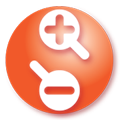
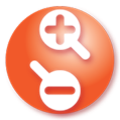
i have no idea

diff --git a/resources/assets/scripts/labcamCtrl/labcamCtrl.js b/resources/assets/scripts/labcamCtrl/labcamCtrl.js
@@ -44,17 +44,15 @@ export default class CameraControllerThing {
 
   // direct command sender
   sendCommand(action, actionKey, command) {
-    let commandQuerey = {
+    let commandQuery = {
       url: this.formUrl,
       method: 'POST',
       data: {
-        'action': action,
+        action: action,
         [actionKey]: command,
       },
     };
-    $.ajax(
-      commandQuerey
-    );
+    $.ajax(commandQuery);
   }
 
   // helper to get stop command
@@ -97,11 +95,12 @@ export default class CameraControllerThing {
     console.log(`${actionToKill} ${commandToKill} killed`);
   }
 
-  // universal helper to controll camera
+  // universal helper to control camera
   doCommand(action, command) {
     console.log(`Command ${action} sent to ${command}`);
     // kill and clear last action
-    if (this.activeAction && this.timeOut) this.killAction(this.activeAction, this.activeCommand);
+    if (this.activeAction && this.timeOut)
+      this.killAction(this.activeAction, this.activeCommand);
     // set the active action
     this.activeAction = action;
     this.activeCommand = command;
@@ -110,7 +109,10 @@ export default class CameraControllerThing {
     //run command
     if (command !== stopCommand) {
       let secondsToGo = 5;
-      this.timeOut = setTimeout(this.killAction.bind(this, action, command), 1000 * secondsToGo);
+      this.timeOut = setTimeout(
+        this.killAction.bind(this, action, command),
+        1000 * secondsToGo
+      );
     }
     let actionKey = this.getActionKey(action);
     this.sendCommand(action, actionKey, command);

diff --git a/resources/assets/styles/components/_video-cards.scss b/resources/assets/styles/components/_video-cards.scss
@@ -46,7 +46,7 @@
       position: absolute;
       z-index: 10;
       content: "";
-      background: url(../images/play.png) center center no-repeat;
+      background: url("../images/play.png") center center no-repeat;
       background-size: contain;
       width: 20%;
       height: 100%;

diff --git a/resources/views/labcam-views/labcam-ctrls.blade.php b/resources/views/labcam-views/labcam-ctrls.blade.php
@@ -1,58 +1,75 @@
 <div class="d-flex mb-4">
-  <style>
-    .zoomPng img {
-      user-drag: none;
-      user-select: none;
-      -moz-user-select: none;
-      -webkit-user-drag: none;
-      -webkit-user-select: none;
-      -ms-user-select: none;
-    }
+    <style>
+        .zoomPng img {
+            user-drag: none;
+            user-select: none;
+            -moz-user-select: none;
+            -webkit-user-drag: none;
+            -webkit-user-select: none;
+            -ms-user-select: none;
+        }
 
-    .zoomPng:hover {
-      background-color: orange;
-    }
+        .zoomPng:hover {
+            background-color: orange;
+        }
 
-    .clip-circle {
-      clip-path: circle(60px at center);
-    }
-  </style>
-  <div id="zoomPngs">
-    {{-- <div>
+        .clip-circle {
+            clip-path: circle(54px at center);
+            cursor: pointer;
+        }
+
+    </style>
+    <div id="zoomPngs" class="clip-circle">
+        {{-- <div>
       <div style="background-image:url(@asset('images/labcam-imgs/1_left_zoom_in_transparent.png'))"></div>
       <div style="background-image:url(@asset('images/labcam-imgs/2_left_zoom_out_transparent.png'))"></div>
     </div> --}}
-    <div>
-      <img draggable="false" (dragstart)="false;" class="zoomPng" style="display: block;" src="@asset('images/labcam-imgs/1_left_zoom_in_transparent.png')" />
-      <img draggable="false" (dragstart)="false;" class="zoomPng" style="display: block;" src="@asset('images/labcam-imgs/2_left_zoom_out_transparent.png')" />
+        <div>
+
+        </div>
+        <div>
+            <img draggable="false" (dragstart)="false;" class="zoomPng" style="display: block;"
+                src="@asset('images/labcam-imgs/labcam_zoom_in_transparent.png')" />
+            <img draggable="false" (dragstart)="false;" class="zoomPng" style="display: block;"
+                src="@asset('images/labcam-imgs/labcam_zoom_out_transparent.png')" />
+        </div>
     </div>
-  </div>
-  <script>
-    let zoomPngs = document.querySelector('#zoomPngs');
-    zoomPngs.addEventListener('click', function(event) {
-      console.log(event);
-    })
-  </script>
+    <script>
+        let zoomPngs = document.querySelector('#zoomPngs');
+        zoomPngs.addEventListener('click', function(event) {
+            console.log(event);
+        });
+
+    </script>
 </div>
 
 
 <div class="mb-3">
-  <button id="panicBtn" class="btn btn-danger" style="border: solid 1px rgba(0, 6, 10, 0.075); font-size: 2em;">PANIC</button>
+    <button id="panicBtn" class="btn btn-danger"
+        style="border: solid 1px rgba(0, 6, 10, 0.075); font-size: 2em;">PANIC</button>
 </div>
 
 <div class="btn-group zoomBtns m-2" role="group" aria-label="ctrls-zoom">
-  <button id="zoomInBtn" class="btn btn-primary" value="in" style="border: solid 1px rgba(0, 6, 10, 0.075);">Zoom In</button>
-  <button id="zoomOutBtn" class="btn btn-primary" value="out" style="border: solid 1px rgba(0, 6, 10, 0.075);">Zoom Out</button>
+    <button id="zoomInBtn" class="btn btn-primary" value="in" style="border: solid 1px rgba(0, 6, 10, 0.075);">Zoom
+        In</button>
+    <button id="zoomOutBtn" class="btn btn-primary" value="out" style="border: solid 1px rgba(0, 6, 10, 0.075);">Zoom
+        Out</button>
 </div>
 
 <div class="btn-group lookBtns m-2" role="group" aria-label="ctrls-look">
-  <button id="lookUpBtn" class="btn btn-info" value="up" style="border: solid 1px rgba(0, 6, 10, 0.075);">lookUpBtn</button>
-  <button id="lookDownBtn" class="btn btn-info" value="down" style="border: solid 1px rgba(0, 6, 10, 0.075);">lookDownBtn</button>
-  <button id="lookLeftBtn" class="btn btn-info" value="left" style="border: solid 1px rgba(0, 6, 10, 0.075);">lookLeftBtn</button>
-  <button id="lookRightBtn" class="btn btn-info" value="right" style="border: solid 1px rgba(0, 6, 10, 0.075);">lookRightBtn</button>
+    <button id="lookUpBtn" class="btn btn-info" value="up"
+        style="border: solid 1px rgba(0, 6, 10, 0.075);">lookUpBtn</button>
+    <button id="lookDownBtn" class="btn btn-info" value="down"
+        style="border: solid 1px rgba(0, 6, 10, 0.075);">lookDownBtn</button>
+    <button id="lookLeftBtn" class="btn btn-info" value="left"
+        style="border: solid 1px rgba(0, 6, 10, 0.075);">lookLeftBtn</button>
+    <button id="lookRightBtn" class="btn btn-info" value="right"
+        style="border: solid 1px rgba(0, 6, 10, 0.075);">lookRightBtn</button>
 </div>
 
 <div class="btn-group walkBtns m-2" role="group" aria-label="ctrls-look">
-  <button id="walkForwardBtn" class="btn btn-warning" value="forward" style="border: solid 1px rgba(0, 6, 10, 0.075);">walkForwardBtn</button>
-  <button id="walkBackwardBtn" class="btn btn-warning" value="backward" style="border: solid 1px rgba(0, 6, 10, 0.075);">walkBackwardBtn</button>
+    <button id="walkForwardBtn" class="btn btn-warning" value="forward"
+        style="border: solid 1px rgba(0, 6, 10, 0.075);">walkForwardBtn</button>
+    <button id="walkBackwardBtn" class="btn btn-warning" value="backward"
+        style="border: solid 1px rgba(0, 6, 10, 0.075);">walkBackwardBtn</button>
 </div>

diff --git a/resources/views/index.blade.php b/resources/views/index.blade.php
@@ -1,18 +1,18 @@
 @extends('layouts.app')
 
 @section('content')
-  @include('partials.page-header')
+    @include('partials.page-header')
 
-  @if (!have_posts())
-    <div class="alert alert-warning">
-      {{ __('Sorry, no results were found.', 'sage') }}
-    </div>
-    {!! get_search_form(false) !!}
-  @endif
-  <h1>asdf</h1>
-  @while (have_posts()) @php the_post() @endphp
-    @include('partials.content-'.get_post_type())
-  @endwhile
+    @if (!have_posts())
+        <div class="alert alert-warning">
+            {{ __('Sorry, no results were found.', 'sage') }}
+        </div>
+        {!! get_search_form(false) !!}
+    @endif
+    <h1>asdf</h1>
+    @while (have_posts()) @php the_post() @endphp
+        @include('partials.content-'.get_post_type())
+    @endwhile
 
-  {!! get_the_posts_navigation() !!}
+    {!! get_the_posts_navigation() !!}
 @endsection

diff --git a/resources/views/404.blade.php b/resources/views/404.blade.php
@@ -3,12 +3,12 @@
 @section('content')
 @include('partials.page-header')
 <div class="d-flex">
-  @if (!have_posts())
-  <div class="alert alert-warning">
-    {{ __('Sorry, but the page you were trying to view does not exist.', 'sage') }}
-  </div>
+    @if (!have_posts())
+    <div class="alert alert-warning">
+        {{ __('Sorry, but the page you were trying to view does not exist.', 'sage') }}
+    </div>
 
-  {{-- {!! get_search_form(false) !!} --}}
-  @endif
+    {{-- {!!  get_search_form(false) !!} --}}
+    @endif
 </div>
 @endsection
